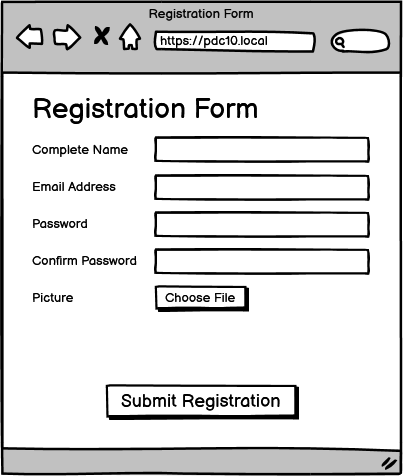
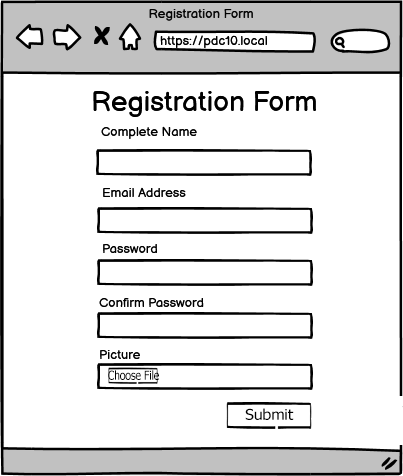
first commit

diff --git a/register.php b/register.php
@@ -1,7 +1,3 @@
-<?php
-$success = $_GET['success'] ?? null;
-$error = $_GET['error'] ?? null;
-?>
 <!DOCTYPE html>
 <html lang="en">
 <head>
@@ -21,6 +17,10 @@ $error = $_GET['error'] ?? null;
         }
         .registerform {
         }
+
+        .btn-primary {
+            background-color: #27baba;
+        }
     </style>
    <script>
         var check = function() {
@@ -34,15 +34,15 @@ $error = $_GET['error'] ?? null;
         }
         }
         function check_pass() {
-        if (document.getElementById('password').value ==
-                document.getElementById('confirmPassword').value) {
+        if (document.getElementById('pass').value ==
+                document.getElementById('cpass').value) {
             document.getElementById('submit').disabled = false;
         } else {
             document.getElementById('submit').disabled = true;
         }
         }
     </script>
-    <title>Document</title>
+    <title>File Uploader</title>
     
 </head>
 <body>
@@ -51,11 +51,11 @@ $error = $_GET['error'] ?? null;
                 <h1> Registration Form</h1>
             </header>
             <div class="table">
-                <form method="POST" enctype="multipart/form-data" action="form-handler.php">
+                <form method="POST" enctype="multipart/form-data" action="form_handler.php">
                 <div class="form-group">
                 <div class="col-md-4 mb-3">
-            <label for="cname">Complete Name</label>
-            <input type="text" class="form-control" id="cname" name="cname"  placeholder="Enter Complete Name">
+            <label for="complete_name">Complete Name</label>
+            <input type="text" class="form-control" id="complete_name" name="complete_name"  placeholder="Enter Complete Name">
         </div>
         <div class="form-group">
         <div class="col-md-4 mb-3">
@@ -65,18 +65,19 @@ $error = $_GET['error'] ?? null;
         </div>
         <div class="form-group">
         <div class="col-md-4 mb-3">
-            <label for="pass">Password</label>
-            <input type="password" class="form-control" id="pass" name="pass" placeholder="Password">
+            <label for="password">Password</label>
+            <input type="password" class="form-control" id="password" name="password" placeholder="Password">
         </div>
         <div class="form-group">
         <div class="col-md-4 mb-3">
             <label for="cpass">Confirm Password</label>
             <input type="password" class="form-control" id="cpass" name="cpass" placeholder="Confirm your Password">
+            <span id='message'></span>
         </div>
         <div class="form-group">
         <div class="col-md-4 mb-3">
-            <label for="picture">Picture</label>
-            <input type="file" class="form-control" id="picture" name="picture">
+            <label for="picture_path">Picture</label>
+            <input type="file" class="form-control" id="picture_path" name="picture_path">
             </div>
         <div class="form-group row">
             <input class="btn btn-primary btn-lg" type="submit" value="Submit" style="margin-left: 300px;">
@@ -86,45 +87,6 @@ $error = $_GET['error'] ?? null;
 
 
 
-            <!--<div class="form-group row">
-                <label for="cname" class= "col-sm-2 col-form-label">Complete Name</label>
-                <div class="col-sm-5">
-                    <input type="text" class="form-control" id="cname" name="cname">
-                </div>
-            </div>
-
-            <div class="form-group row">
-                <label for="email" class= "col-sm-2 col-form-label">Email Address</label>
-                <div class="col-sm-5">
-                    <input type="text" class="form-control" id="email" name="email">
-                </div>
-            </div>
-
-            <div class="form-group row">
-                <label for="pass" class= "col-sm-2 col-form-label">Password</label>
-                <div class="col-sm-5">
-                    <input type="password" class="form-control" id="pass" name="pass">
-                </div>
-            </div>
-
-            <div class="form-group row">
-                <label for="cpass" class= "col-sm-2 col-form-label">Confirm Password</label>
-                <div class="col-sm-5">
-                    <input type="password" class="form-control" id="cpass" name="cpass">
-                </div>
-            </div>
-
-            <div class="form-group row">
-                <label for="picture" class= "col-sm-2 col-form-label">Picture</label>
-                <div class="col-sm-5">
-                    <input type="file" class="form-control" id="picture" name="picture">
-                </div>
-            </div>
-
-            <div class="form-group row">
-                    <input class="btn btn-primary btn-lg" type="submit" value="Submit" style="margin-left: 300px;">
-                </div>
-            </div>-->
         </form>
     </div>
     </div>

diff --git a/index.php b/index.php
@@ -13,6 +13,13 @@ $error = $_GET['error'] ?? null;
 
 <link rel="stylesheet" href="https://cdn.jsdelivr.net/npm/bootstrap@4.0.0/dist/css/bootstrap.min.css" integrity="sha384-Gn5384xqQ1aoWXA+058RXPxPg6fy4IWvTNh0E263XmFcJlSAwiGgFAW/dAiS6JXm" crossorigin="anonymous">
 <title>File Upload Handler in PHP</title>
+<style> 
+.btn-primary {
+    box-shadow: 0 8px 16px 0 rgba(0,0,0,0.2), 0 6px 20px 0 rgba(0,0,0,0.19);
+    background-color: #27baba;
+
+}
+</style>
 </head>
 <body>
 <?php if (!is_null($success)): ?>
@@ -37,8 +44,8 @@ $error = $_GET['error'] ?? null;
     </div>
 </div>
   <div class="container">
-
-  <table class="table table-sm">
+  <div class="container-xl">
+  <table class="table table-striped">
   <thead>
       <th scope="col">ID</th>
       <th scope="col">Complete Name</th>
@@ -48,6 +55,7 @@ $error = $_GET['error'] ?? null;
   </thead>
   <tbody>
         <?php
+            $retrieve = new Retrieve;
             $retrieveData = $retrieve->retrieveData();
             foreach($retrieveData as $data){
         ?>

diff --git a/file.php b/file.php
@@ -1,6 +1,6 @@
 <?php
 
-class file
+class File
 {
 	protected $id;
 	protected $complete_name;
@@ -8,10 +8,10 @@ class file
 	protected $password;
 	protected $picture_path;
 
-	const TYPE_IMAGE = 'images';
-	const TYPE_IMAGE = 'images/';
+	const TYPE_IMAGE = 'image';
 
-	const DIRECTORY_IMAGES = 'uploads/';
+
+	const DIRECTORY_IMAGES = 'upload/';
 
 	public function __construct(
 		$complete_name,
@@ -30,7 +30,7 @@ class file
 	{
 		return $this->complete_name;
 	}
-	public function getPicture()
+	public function getPic()
 	{
 		return $this->picture_path;
 	}
@@ -50,7 +50,7 @@ class file
 		global $pdo;
 		try {
 
-			$sql = "INSERT INTO files SET complete_name=:complete_name, email=:email, password=:password, picture_path=:picture_path";
+			$sql = "INSERT INTO registrations SET complete_name=:complete_name, email=:email, password=:password, picture_path=:picture_path";
 			$statement = $pdo->prepare($sql);
 
 			return $statement->execute([
@@ -92,3 +92,4 @@ class file
 
 
     }
+}

diff --git a/form_handler.php b/form_handler.php
@@ -7,24 +7,23 @@ $user = "root";
 $passwd = "";
 
 $pdo = new PDO($dsn, $user, $passwd);
-$result = registrations::handleUpload($_FILES['picture_path']);
+$result = File::handleUpload($_FILES['picture_path']);
 
 if ($result == "error"){
-	header('Location: index.php?error=' . "error file type");
+	('Location: index.php?error=' . "error file type");
 }
 else{
 	if ($result !== FALSE) {
 		try {
-			// Save the registration info
 			
-			$register = new Registration($_POST['complete_name'], $_POST['email'], $_POST['password'], $result['save']);
+		$register = new File($_POST['complete_name'], $_POST['email'], $_POST['password'], $result['save']);
             
 			$result = $register->save();
 			header('Location: index.php?success=1');
 		}
 		catch (Exception $e) {
 			error_log($e->getMessage());
-		}
+}
 	} else {    
 
 		header('Location: index.php?error=' . $e->getMessage());
